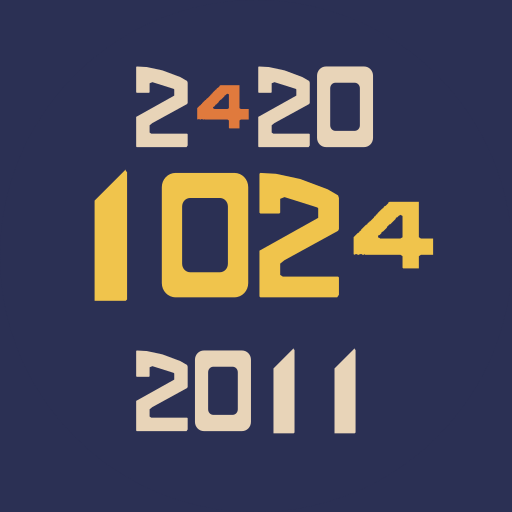
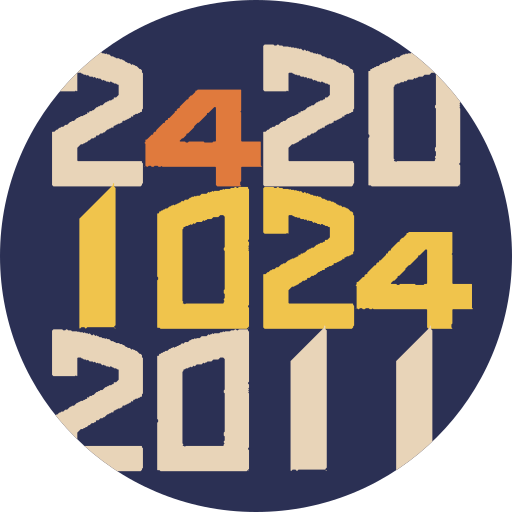
Place 1024 in the middle band of the circular stencil seal.
Keep the original 0/1/2/4 cuts at one shared scale, clip the side digits, and leave 2420 / 2011 on the previous-style top and bottom rows.

diff --git a/game/gamebgp/admin.js b/game/gamebgp/admin.js
@@ -186,7 +186,7 @@ function renderLogin(errorMsg = "") {
     <div class="login-wrap">
       <div class="card login-card">
         <div class="title-row">
-          <img class="site-logo" src="/icons/apps/logo.svg?v=3" width="44" height="44" alt="">
+          <img class="site-logo" src="/icons/apps/logo.svg?v=4" width="44" height="44" alt="">
           <h1>管理后台</h1>
         </div>
         <p class="sub">门户与游戏数据管理。会话 12 小时有效。</p>
@@ -828,7 +828,7 @@ function paintShell() {
     <div class="wrap">
       <div class="topbar">
         <div class="title-row">
-          <img class="site-logo" src="/icons/apps/logo.svg?v=3" width="48" height="48" alt="">
+          <img class="site-logo" src="/icons/apps/logo.svg?v=4" width="48" height="48" alt="">
           <div class="title-text">
             <h1>管理后台</h1>
             <p class="user-line">${esc(state.me.username)}</p>

diff --git a/game/gamebgp/index.html b/game/gamebgp/index.html
@@ -5,13 +5,13 @@
   <meta name="viewport" content="width=device-width, initial-scale=1.0, viewport-fit=cover">
   <meta name="robots" content="noindex,nofollow">
   <title>管理后台 · 1024201</title>
-  <link rel="icon" type="image/svg+xml" href="/icons/apps/logo.svg?v=3">
+  <link rel="icon" type="image/svg+xml" href="/icons/apps/logo.svg?v=4">
   <link rel="icon" type="image/png" sizes="192x192" href="/icons/icon-192.png">
   <link rel="apple-touch-icon" href="/icons/apple-touch-icon.png">
   <link rel="stylesheet" href="admin.css?v=16">
 </head>
 <body>
   <div id="app"></div>
-  <script type="module" src="admin.js?v=19"></script>
+  <script type="module" src="admin.js?v=20"></script>
 </body>
 </html>

diff --git a/game/index.html b/game/index.html
@@ -8,7 +8,7 @@
     <meta name="apple-mobile-web-app-status-bar-style" content="default">
     <meta name="apple-mobile-web-app-title" content="1042">
     <link rel="manifest" href="/manifest.webmanifest">
-    <link rel="icon" type="image/svg+xml" href="/icons/apps/logo.svg?v=3">
+    <link rel="icon" type="image/svg+xml" href="/icons/apps/logo.svg?v=4">
     <link rel="icon" type="image/png" sizes="32x32" href="/icons/favicon-32.png">
     <link rel="icon" type="image/png" sizes="192x192" href="/icons/icon-192.png">
     <link rel="apple-touch-icon" href="/icons/apple-touch-icon.png">

diff --git a/game/onesentence/index.html b/game/onesentence/index.html
@@ -8,7 +8,7 @@
     <meta name="apple-mobile-web-app-status-bar-style" content="default">
     <meta name="apple-mobile-web-app-title" content="1042">
     <link rel="manifest" href="/manifest.webmanifest">
-    <link rel="icon" type="image/svg+xml" href="/icons/apps/logo.svg?v=3">
+    <link rel="icon" type="image/svg+xml" href="/icons/apps/logo.svg?v=4">
     <link rel="icon" type="image/png" sizes="32x32" href="/icons/favicon-32.png">
     <link rel="icon" type="image/png" sizes="192x192" href="/icons/icon-192.png">
     <link rel="apple-touch-icon" href="/icons/apple-touch-icon.png">

diff --git a/index.html b/index.html
@@ -9,7 +9,7 @@
     <meta name="apple-mobile-web-app-status-bar-style" content="default">
     <meta name="apple-mobile-web-app-title" content="1042">
     <link rel="manifest" href="/manifest.webmanifest">
-    <link rel="icon" type="image/svg+xml" href="/icons/apps/logo.svg?v=3">
+    <link rel="icon" type="image/svg+xml" href="/icons/apps/logo.svg?v=4">
     <link rel="icon" type="image/png" sizes="32x32" href="/icons/favicon-32.png">
     <link rel="icon" type="image/png" sizes="192x192" href="/icons/icon-192.png">
     <link rel="apple-touch-icon" href="/icons/apple-touch-icon.png">

diff --git a/game/register/index.html b/game/register/index.html
@@ -8,7 +8,7 @@
   <meta name="apple-mobile-web-app-status-bar-style" content="default">
   <meta name="apple-mobile-web-app-title" content="1042">
   <link rel="manifest" href="/manifest.webmanifest">
-  <link rel="icon" type="image/svg+xml" href="/icons/apps/logo.svg?v=3">
+  <link rel="icon" type="image/svg+xml" href="/icons/apps/logo.svg?v=4">
   <link rel="icon" type="image/png" sizes="32x32" href="/icons/favicon-32.png">
   <link rel="icon" type="image/png" sizes="192x192" href="/icons/icon-192.png">
   <link rel="apple-touch-icon" href="/icons/apple-touch-icon.png">

diff --git a/sw.js b/sw.js
@@ -1,4 +1,4 @@
-const CACHE = "1042-pwa-v161";
+const CACHE = "1042-pwa-v162";
 const SHELL = [
   "/",
   "/index.html",
@@ -179,6 +179,7 @@ const SHELL = [
   "/icons/apps/logo.svg",
   "/icons/apps/logo.svg?v=2",
   "/icons/apps/logo.svg?v=3",
+  "/icons/apps/logo.svg?v=4",
   "/icons/weapon/pistol.png",
   "/icons/weapon/ak.png",
   "/icons/weapon/rpg.png",

diff --git a/game/register/auth.js b/game/register/auth.js
@@ -66,7 +66,7 @@ function renderShell() {
       <div id="accountChrome"></div>
     </div>
   <div class="card">
-    <img class="auth-logo" src="/icons/apps/logo.svg?v=3" alt="">
+    <img class="auth-logo" src="/icons/apps/logo.svg?v=4" alt="">
     <h1>注册账户</h1>
     <p class="sub">一票通</p>
     <div class="tabs">
